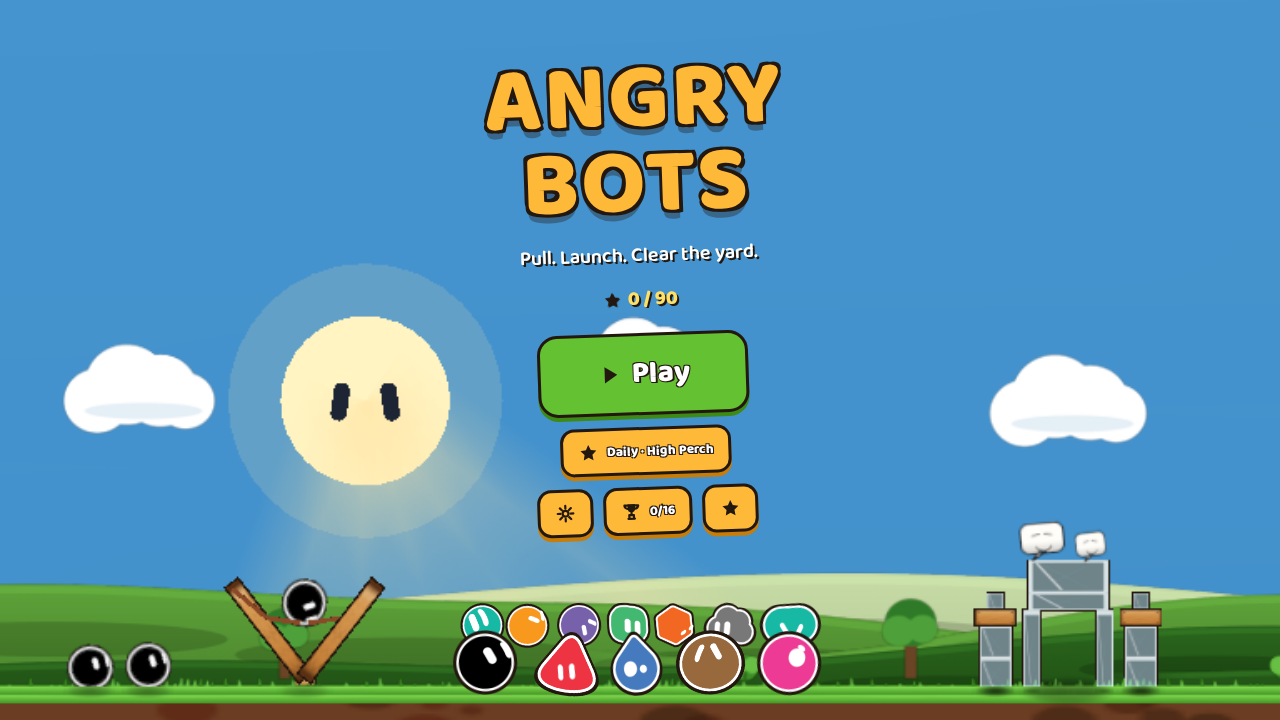
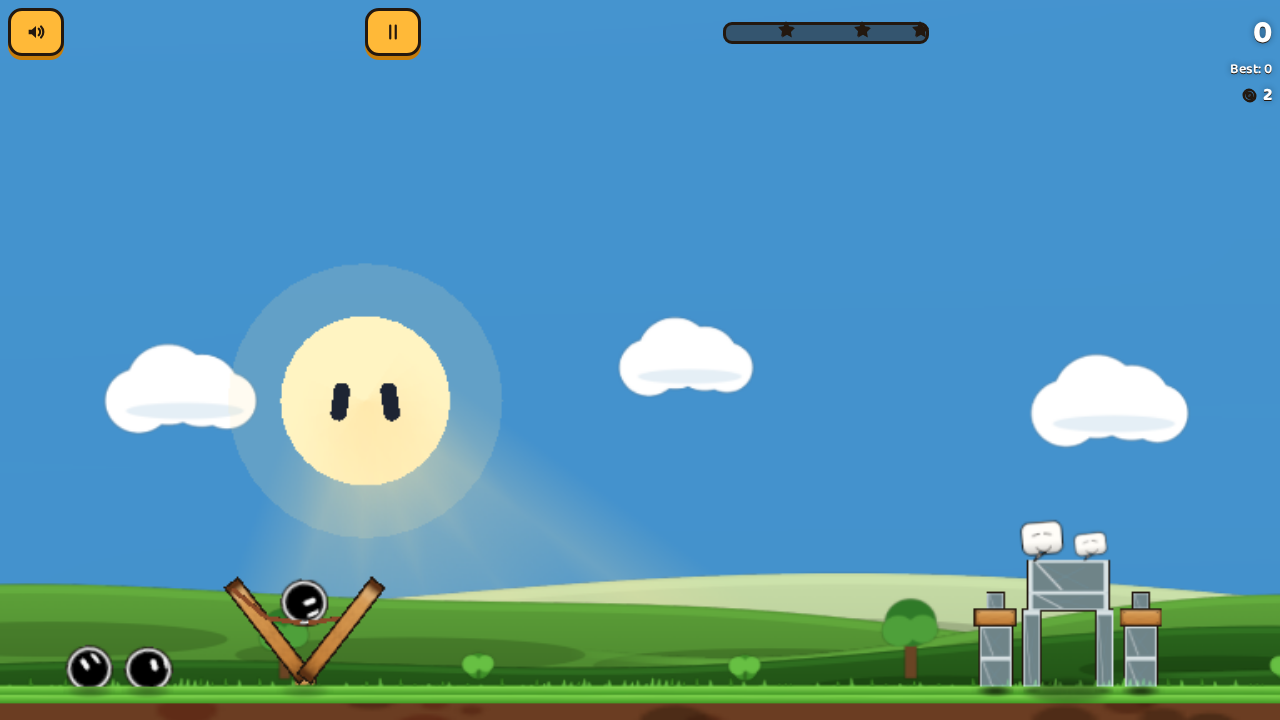
fix: title never draws over live gameplay when boot finishes late
Splash.ready could fire after a level was already entered (debug hooks or
a fast real-UI path), drawing the title card over the running level. Guard
on phase === 'play'. Evidence recaptured with no menus visible; first-flight
captures drive the real Play → chapter → node flow. levels-smoke asserts the
title card is hidden after entering every level through the normal UI.

diff --git a/tests/e2e/levels-smoke.spec.ts b/tests/e2e/levels-smoke.spec.ts
@@ -61,6 +61,9 @@ test.describe('levels smoke', () => {
       await page.getByRole('button', { name: 'Play' }).click();
       await pickLevel(page, id);
       await expect.poll(async () => (await snapshot(page)).state, { timeout: 20_000 }).toBe('aim');
+      // Boot may finish after a fast level entry — the title card must never
+      // be drawn over live gameplay.
+      await expect(page.locator('.title-card')).toBeHidden();
       expect(errors).toEqual([]);
     });
   }

diff --git a/src/app/App.ts b/src/app/App.ts
@@ -215,6 +215,9 @@ export class App {
       if (booted) return;
       booted = true;
       splash.ready(() => {
+        // A level may already be running if boot outlived an early level
+        // entry — the title must never overlay live gameplay.
+        if (this.phase === 'play') return;
         this.screens.refreshTitleStats();
         this.screens.title.show();
         this.screens.hud.hide();
